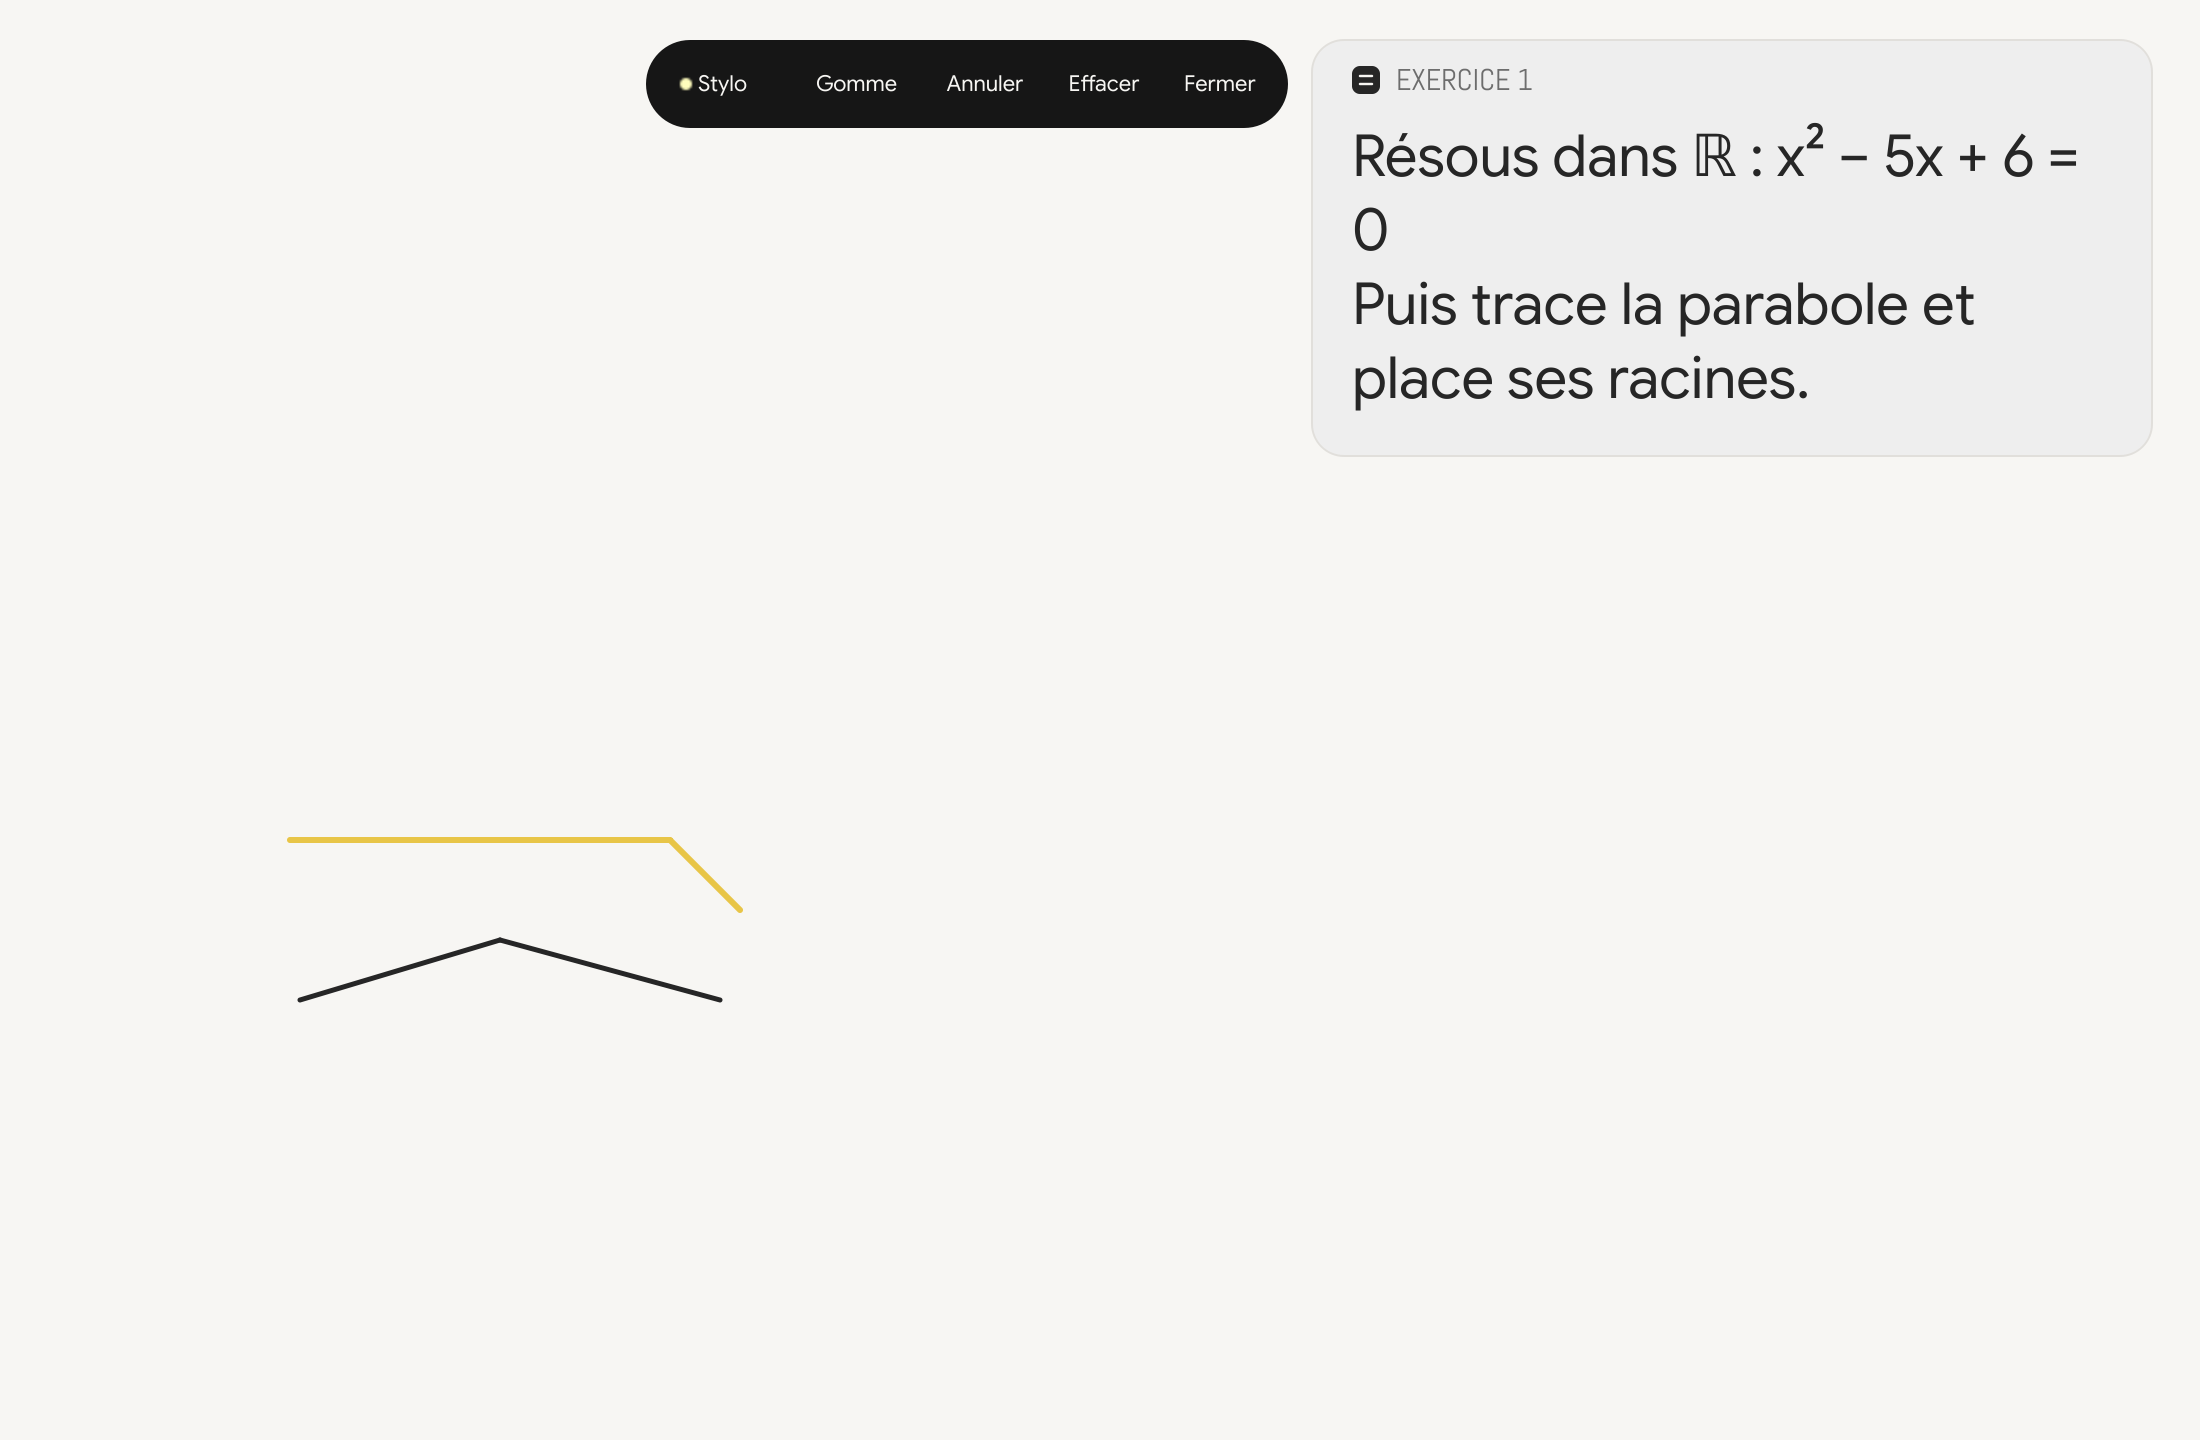
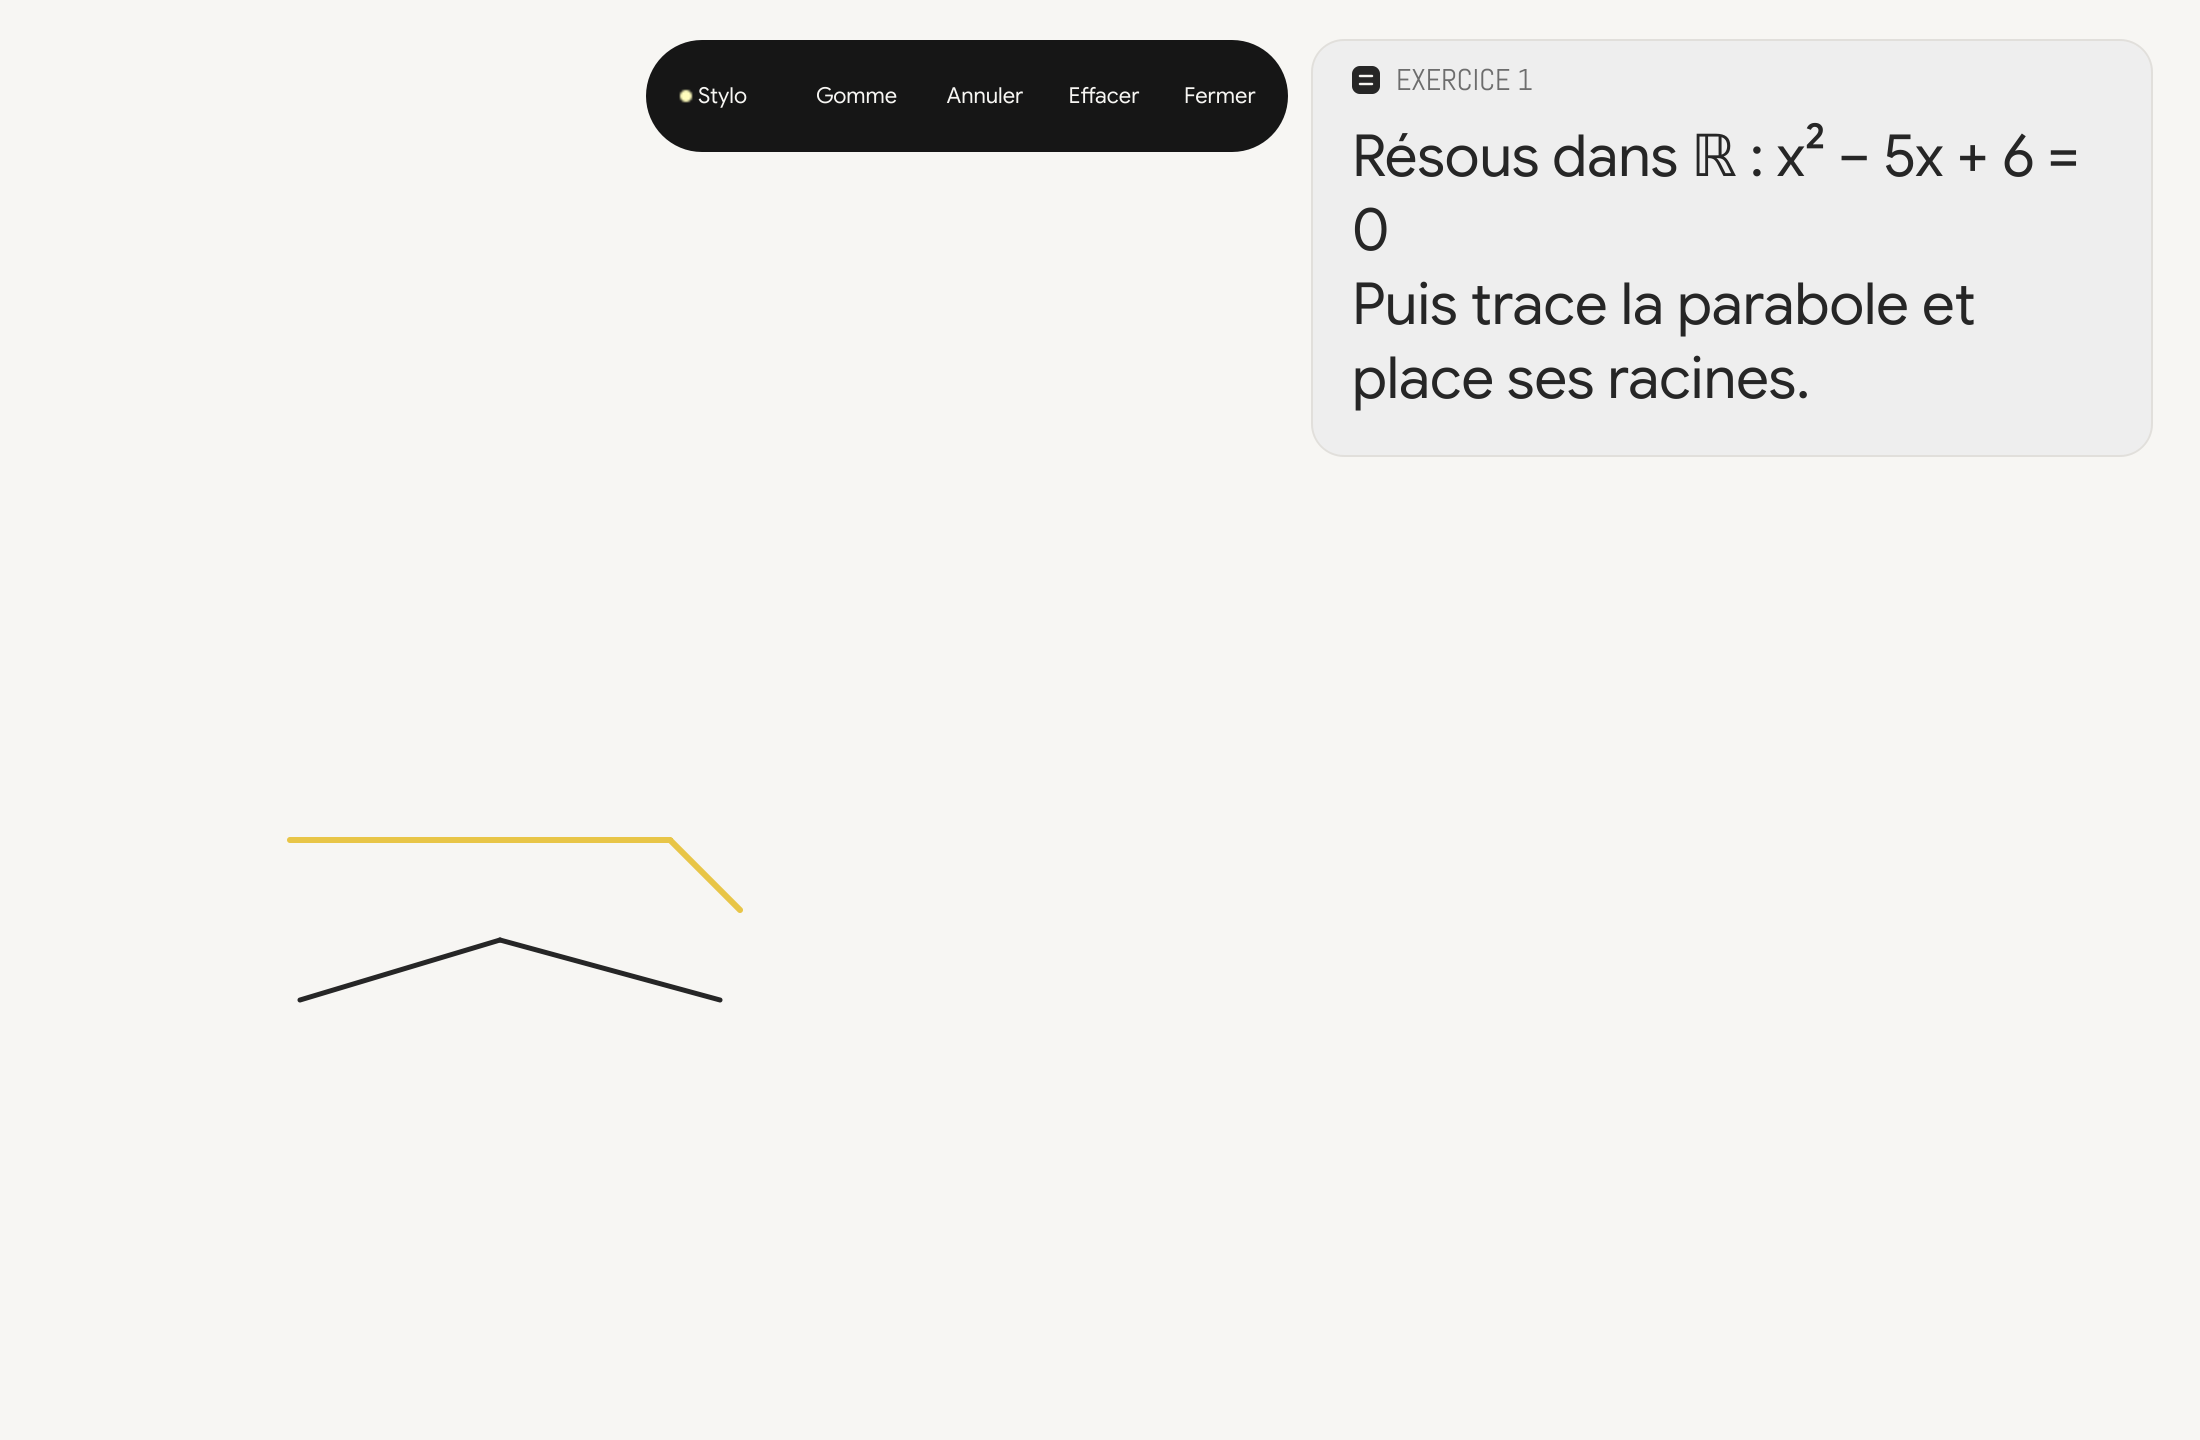
style(board): polish plot visuals and pen toolbar

Changed region(s): [[0.2782, 0.0312, 0.5873, 0.125]]

diff --git a/gerald/tools/plot_render.py b/gerald/tools/plot_render.py
@@ -1,14 +1,32 @@
 from __future__ import annotations
 
 import math
+from dataclasses import dataclass
 
 from PyQt6.QtCore import QPointF, QRectF, Qt
 from PyQt6.QtGui import QColor, QFont, QFontMetricsF, QPainter, QPainterPath, QPen
 
-from gerald.tools.diagram_render import draw_diagram_card
 from gerald.tools.plot import PLOT_INSETS, PlotCommand
 
-_CURVE_COLORS = (None, QColor("#FF9F0A"), QColor("#30D158"))
+
+@dataclass(frozen=True)
+class PlotPalette:
+    curve: str
+    secondary_curves: tuple[str, str]
+    point_fill: str
+    point_outline: str
+    label_fill: str
+    label_border: str
+    label_text: str
+    grid: str
+    axis: str
+    tick: str
+    card: str
+    card_border: str
+
+
+def _curve_color(index: int, palette: PlotPalette) -> QColor:
+    return QColor(palette.curve if index == 0 else palette.secondary_curves[index - 1])
 
 
 def _nice_step(span: float) -> float:
@@ -40,24 +58,26 @@ def draw_plot(
     plot: PlotCommand,
     progress: float,
     font_family: str,
-    accent: QColor,
+    palette: PlotPalette,
 ) -> None:
     _x, _y, width, height = plot.box
     bounds = QRectF(0, 0, width, height)
     painter.save()
-    draw_diagram_card(painter, bounds, 255)
+    painter.setPen(QPen(QColor(palette.card_border), 1))
+    painter.setBrush(QColor(palette.card))
+    painter.drawRoundedRect(bounds, 16, 16)
 
     left, top, right, bottom = PLOT_INSETS
     graph = QRectF(left, top, max(1.0, width - left - right), max(1.0, height - top - bottom))
     x_ticks = _ticks(plot.x_min, plot.x_max)
     y_ticks = _ticks(plot.y_min, plot.y_max)
     tick_font = QFont(font_family)
-    tick_font.setPixelSize(10)
+    tick_font.setPixelSize(11)
     metrics = QFontMetricsF(tick_font)
     painter.setFont(tick_font)
 
     painter.save()
-    painter.setPen(QPen(QColor("#E9E9ED"), 1))
+    painter.setPen(QPen(QColor(palette.grid), 1))
     for tick in x_ticks:
         x = graph.left() + (tick - plot.x_min) / (plot.x_max - plot.x_min) * graph.width()
         painter.drawLine(QPointF(x, graph.top()), QPointF(x, graph.bottom()))
@@ -76,11 +96,29 @@ def draw_plot(
         if plot.y_min <= 0 <= plot.y_max
         else graph.bottom()
     )
-    painter.setPen(QPen(QColor("#6E6E73"), 1.25))
+    painter.setPen(QPen(QColor(palette.axis), 1.25))
     painter.drawLine(QPointF(graph.left(), axis_y), QPointF(graph.right(), axis_y))
     painter.drawLine(QPointF(axis_x, graph.top()), QPointF(axis_x, graph.bottom()))
+    arrow_size = 5
+    arrow_half_width = 2.5
+    painter.drawLine(
+        QPointF(graph.right(), axis_y),
+        QPointF(graph.right() - arrow_size, axis_y - arrow_half_width),
+    )
+    painter.drawLine(
+        QPointF(graph.right(), axis_y),
+        QPointF(graph.right() - arrow_size, axis_y + arrow_half_width),
+    )
+    painter.drawLine(
+        QPointF(axis_x, graph.top()),
+        QPointF(axis_x - arrow_half_width, graph.top() + arrow_size),
+    )
+    painter.drawLine(
+        QPointF(axis_x, graph.top()),
+        QPointF(axis_x + arrow_half_width, graph.top() + arrow_size),
+    )
 
-    painter.setPen(QColor("#6E6E73"))
+    painter.setPen(QColor(palette.tick))
     for tick in x_ticks:
         x = graph.left() + (tick - plot.x_min) / (plot.x_max - plot.x_min) * graph.width()
         label = _format_tick(tick)
@@ -100,9 +138,10 @@ def draw_plot(
 
     painter.save()
     painter.setClipRect(graph)
+    painter.setBrush(Qt.BrushStyle.NoBrush)
     visible_count = max(1, math.ceil(len(plot.curves[0].samples) * min(1.0, max(0.0, progress))))
     for curve_index, curve in enumerate(plot.curves):
-        color = accent if curve_index == 0 else _CURVE_COLORS[curve_index]
+        color = _curve_color(curve_index, palette)
         path = QPainterPath()
         active = False
         for sample in curve.samples[:visible_count]:
@@ -127,12 +166,12 @@ def draw_plot(
         for point in plot.points:
             point_x = point.x_img - plot.box[0]
             point_y = point.y_img - plot.box[1]
-            painter.setPen(QPen(QColor("#FFFFFF"), 1))
-            painter.setBrush(accent)
+            painter.setPen(QPen(QColor(palette.point_outline), 1))
+            painter.setBrush(QColor(palette.point_fill))
             painter.drawEllipse(QPointF(point_x, point_y), 3, 3)
             if point.label:
                 label_font = QFont(font_family)
-                label_font.setPixelSize(11)
+                label_font.setPixelSize(12)
                 painter.setFont(label_font)
                 label_metrics = QFontMetricsF(label_font)
                 label_width = label_metrics.horizontalAdvance(point.label) + 12
@@ -161,22 +200,22 @@ def draw_plot(
                         label_height,
                     )
                 placed_labels.append(pill)
-                painter.setPen(QPen(QColor("#E5E5EA"), 1))
-                painter.setBrush(QColor("#FFFFFF"))
+                painter.setPen(QPen(QColor(palette.label_border), 1))
+                painter.setBrush(QColor(palette.label_fill))
                 painter.drawRoundedRect(pill, 8, 8)
-                painter.setPen(QColor("#1D1D1F"))
+                painter.setPen(QColor(palette.label_text))
                 painter.drawText(pill, Qt.AlignmentFlag.AlignCenter, point.label)
 
     if len(plot.curves) > 1 or plot.curves[0].label != plot.curves[0].expr:
         legend_font = QFont(font_family)
-        legend_font.setPixelSize(10)
+        legend_font.setPixelSize(11)
         painter.setFont(legend_font)
         legend_x = left
         for index, curve in enumerate(plot.curves):
-            color = accent if index == 0 else _CURVE_COLORS[index]
+            color = _curve_color(index, palette)
             painter.setPen(QPen(color, 2.5, Qt.PenStyle.SolidLine, Qt.PenCapStyle.RoundCap))
             painter.drawLine(QPointF(legend_x, 18), QPointF(legend_x + 18, 18))
-            painter.setPen(QColor("#1D1D1F"))
+            painter.setPen(QColor(palette.label_text))
             painter.drawText(QPointF(legend_x + 24, 22), curve.label)
             legend_x += 34 + QFontMetricsF(legend_font).horizontalAdvance(curve.label)
     painter.restore()

diff --git a/gerald/board.py b/gerald/board.py
@@ -14,7 +14,7 @@ from gerald.overlay.window import _system_font_family, screen_mapping_for_qscree
 from gerald.tools.diagram import DiagramCommand
 from gerald.tools.diagram_render import draw_diagram
 from gerald.tools.plot import build_plot
-from gerald.tools.plot_render import draw_plot
+from gerald.tools.plot_render import PlotPalette, draw_plot
 from gerald.tools.registry import (
     ArrowCommand,
     CircleCommand,
@@ -28,6 +28,20 @@ from gerald.tools.registry import (
 
 PAPER = QColor("#F7F6F3")
 BOARD_MARK = QColor("#E8C547")
+PLOT_PALETTE = PlotPalette(
+    curve="#262626",
+    secondary_curves=("#E8C547", "#545454"),
+    point_fill="#E8C547",
+    point_outline="#262626",
+    label_fill="#F7F6F3",
+    label_border="#E1DFDB",
+    label_text="#262626",
+    grid="#ECEBE7",
+    axis="#262626",
+    tick="#6D6D6D",
+    card="#FFFFFF",
+    card_border="#E1DFDB",
+)
 
 
 def group_strokes(strokes: list[list[tuple[float, float, float]]], distance: float = 24) -> list[tuple[float, float, float, float]]:
@@ -93,14 +107,14 @@ class BoardWindow(QWidget):
         self._reveal_timer.timeout.connect(self._advance_reveals)
         self._toolbar = QFrame(self)
         self._toolbar.setStyleSheet(
-            "QFrame { background: #161616; border-radius: 22px; }"
+            "QFrame { background: #161616; border-radius: 28px; }"
             "QPushButton { color: #F7F6F3; background: transparent; border: 0; "
             "padding: 5px 10px; font: 11px 'Google Sans Flex'; }"
-            "QPushButton:hover { background: rgba(255,255,255,0.10); border-radius: 18px; }"
+            "QPushButton:hover { background: rgba(255,255,255,0.10); border-radius: 22px; }"
         )
-        self._toolbar.setFixedHeight(44)
+        self._toolbar.setFixedHeight(56)
         toolbar = QHBoxLayout(self._toolbar)
-        toolbar.setContentsMargins(6, 4, 6, 4)
+        toolbar.setContentsMargins(6, 6, 6, 6)
         toolbar.setSpacing(2)
         self._tool_buttons: dict[str, QPushButton] = {}
         for name, callback in (
@@ -111,7 +125,7 @@ class BoardWindow(QWidget):
             ("Fermer", self.close),
         ):
             button = QPushButton(name, self._toolbar)
-            button.setFixedHeight(36)
+            button.setFixedHeight(44)
             button.clicked.connect(callback)
             toolbar.addWidget(button)
             if name in {"Stylo", "Gomme"}:
@@ -548,8 +562,8 @@ class BoardWindow(QWidget):
                     painter,
                     plot,
                     min(1.0, (time.monotonic() - item["created"]) / 0.6),
-                    _system_font_family(),
-                    ACCENT,
+                    "Google Sans Flex",
+                    PLOT_PALETTE,
                 )
                 painter.restore()
             elif item["kind"] == "command":

diff --git a/scripts/render_plot_preview.py b/scripts/render_plot_preview.py
@@ -2,31 +2,38 @@ from __future__ import annotations
 
 import os
 from pathlib import Path
+from types import SimpleNamespace
 
 os.environ.setdefault("QT_QPA_PLATFORM", "offscreen")
 
-from PyQt6.QtCore import Qt
-from PyQt6.QtGui import QImage, QPainter
 from PyQt6.QtWidgets import QApplication
 
 from gerald.board import BoardWindow
 
 
-OUTPUT = Path("/home/ubuntu/previews/plot-board.png")
+OUTPUT = Path(__file__).resolve().parents[1] / "docs" / "board-plot.png"
 
 
 def main() -> int:
     app = QApplication.instance() or QApplication([])
     board = BoardWindow()
     board.resize(1200, 800)
+    board.set_exercise("Exercice 1", ["Résous x² − 5x + 6 = 0"])
+    board.user_strokes = [[(42, 530, 1.0), (72, 498, 0.8), (106, 528, 0.7)]]
+    board._capture = SimpleNamespace(
+        image=SimpleNamespace(size=(2400, 1600)),
+        monitor=SimpleNamespace(left=0, top=0),
+        scale=1.0,
+        img_to_screen=lambda x, y: (x, y),
+    )
     args = {
         "functions": [{"expr": "x**2-5*x+6", "label": "f(x) = x² − 5x + 6"}],
         "x_min": -1,
         "x_max": 6,
-        "x": 110,
-        "y": 84,
-        "w": 980,
-        "h": 650,
+        "x": 380,
+        "y": 264,
+        "w": 1800,
+        "h": 1280,
         "points": [
             {"x": 2, "y": 0, "label": "Racine 2"},
             {"x": 3, "y": 0, "label": "Racine 3"},
@@ -37,11 +44,7 @@ def main() -> int:
     board._gerald[-1]["created"] -= 1
     board.show()
     app.processEvents()
-    image = QImage(board.size(), QImage.Format.Format_ARGB32_Premultiplied)
-    image.fill(Qt.GlobalColor.transparent)
-    painter = QPainter(image)
-    board.render(painter)
-    painter.end()
+    image = board.grab().toImage()
     if not image.save(str(OUTPUT)):
         raise RuntimeError(f"Could not save preview to {OUTPUT}")
     board.close()

diff --git a/tests/test_board.py b/tests/test_board.py
@@ -139,9 +139,12 @@ def test_toolbar_is_visible_and_centered_at_top():
 
     toolbar = board._toolbar
     assert toolbar.isVisible()
+    assert toolbar.height() == 56
     assert toolbar.y() == 20
     assert toolbar.x() == (board.width() - toolbar.width()) // 2
-    assert [button.text() for button in toolbar.findChildren(QPushButton)] == [
+    buttons = toolbar.findChildren(QPushButton)
+    assert all(button.height() >= 44 for button in buttons)
+    assert [button.text() for button in buttons] == [
         "Stylo",
         "Gomme",
         "Annuler",
@@ -253,6 +256,41 @@ def test_tablet_eraser_press_uses_eraser_path_without_creating_stroke(monkeypatc
     assert board._current is None
     assert len(board.user_strokes) == 1
     assert event.accepted
+    board.close()
+    app.processEvents()
+
+
+def test_tablet_stroke_retains_pen_pressure():
+    from PyQt6.QtCore import QPointF
+
+    class Event:
+        class Type:
+            TabletPress = 1
+            TabletMove = 2
+
+        def __init__(self, event_type, position, pressure):
+            self._type = event_type
+            self._position = position
+            self._pressure = pressure
+
+        def type(self):
+            return self._type
+
+        def position(self):
+            return self._position
+
+        def pressure(self):
+            return self._pressure
+
+        def accept(self):
+            pass
+
+    app = QApplication.instance() or QApplication([])
+    board = BoardWindow()
+    board.tabletEvent(Event(Event.Type.TabletPress, QPointF(30, 40), 0.7))
+    board.tabletEvent(Event(Event.Type.TabletMove, QPointF(35, 45), 0.4))
+
+    assert board.user_strokes == [[(30.0, 40.0, 0.7), (35.0, 45.0, 0.4)]]
     board.close()
     app.processEvents()
 

diff --git a/tests/test_plot.py b/tests/test_plot.py
@@ -9,7 +9,7 @@ from PyQt6.QtGui import QColor
 from PyQt6.QtWidgets import QApplication
 
 from gerald.board import BoardWindow
-from gerald.tools.plot import build_plot, parse_expression
+from gerald.tools.plot import PLOT_INSETS, build_plot, parse_expression
 from gerald.tools.registry import BOARD_TOOL_NAMES, TOOL_SCHEMAS
 
 
@@ -99,5 +99,14 @@ def test_board_plot_renders_and_returns_point_image_coordinates():
     image = board.grab().toImage()
     assert not image.isNull()
     assert image.pixelColor(x + 20, y + 20) == QColor("#FFFFFF")
+    plot = board._gerald[0]["plot"]
+    left, top, right, bottom = PLOT_INSETS
+    graph_left, graph_top = left, top
+    graph_width = width - left - right
+    graph_height = height - top - bottom
+    axis_x = round(x + graph_left + (0 - plot.x_min) / (plot.x_max - plot.x_min) * graph_width)
+    curve_y = graph_top + (plot.y_max - 6) / (plot.y_max - plot.y_min) * graph_height
+    probe_y = round(y + (graph_top + curve_y) / 2)
+    assert image.pixelColor(axis_x, probe_y).red() < 100
     board.close()
     app.processEvents()

diff --git a/README.md b/README.md
@@ -66,7 +66,7 @@ Captures : [accueil](docs/notch-greeting.png), [encoche réduite](docs/notch-col
 [chat](docs/notch-panel.png), [documents](docs/notch-settings-documents.png),
 [historique](docs/notch-settings-historique.png), [TD](docs/td-exercises.png),
 [exercice au survol](docs/td-hover.png) et
-[exercice au tableau](docs/board-exercise.png).
+[exercice au tableau](docs/board-exercise.png), [tracé](docs/board-plot.png).
 
 ## Free GPU fallback (Colab)
 
